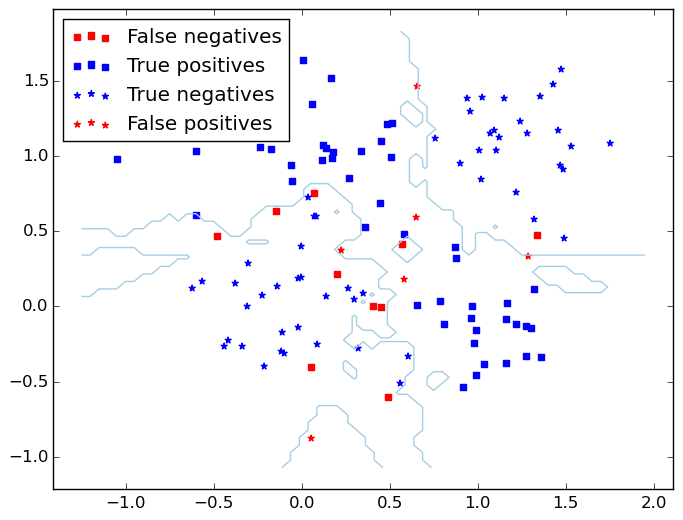
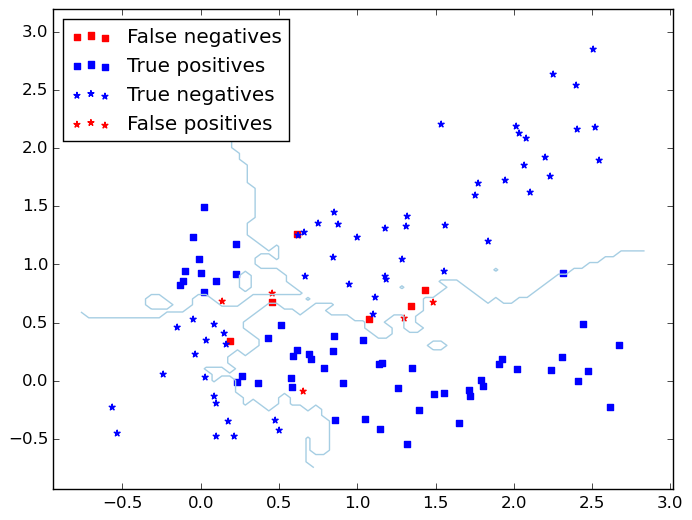
randint from 0 to 2

diff --git a/E6/6.1-2.py b/E6/6.1-2.py
@@ -7,9 +7,9 @@ def createDataAsXYL(numberperset=60):
    data = [[None, None, None] for x in range(2*numberperset)]
    sd = np.sqrt(.1)
    for i in range(0, 2*numberperset, 2):
-      myrand = randint(0,1)
+      myrand = randint(0,2)
       data[i] = [np.random.normal(myrand, sd), np.random.normal(not myrand, sd),  1]
-      myrand = randint(0,1)
+      myrand = randint(0,2)
       data[i+1] = [np.random.normal(myrand, sd), np.random.normal(myrand, sd), -1]
       
    return np.array(data)
